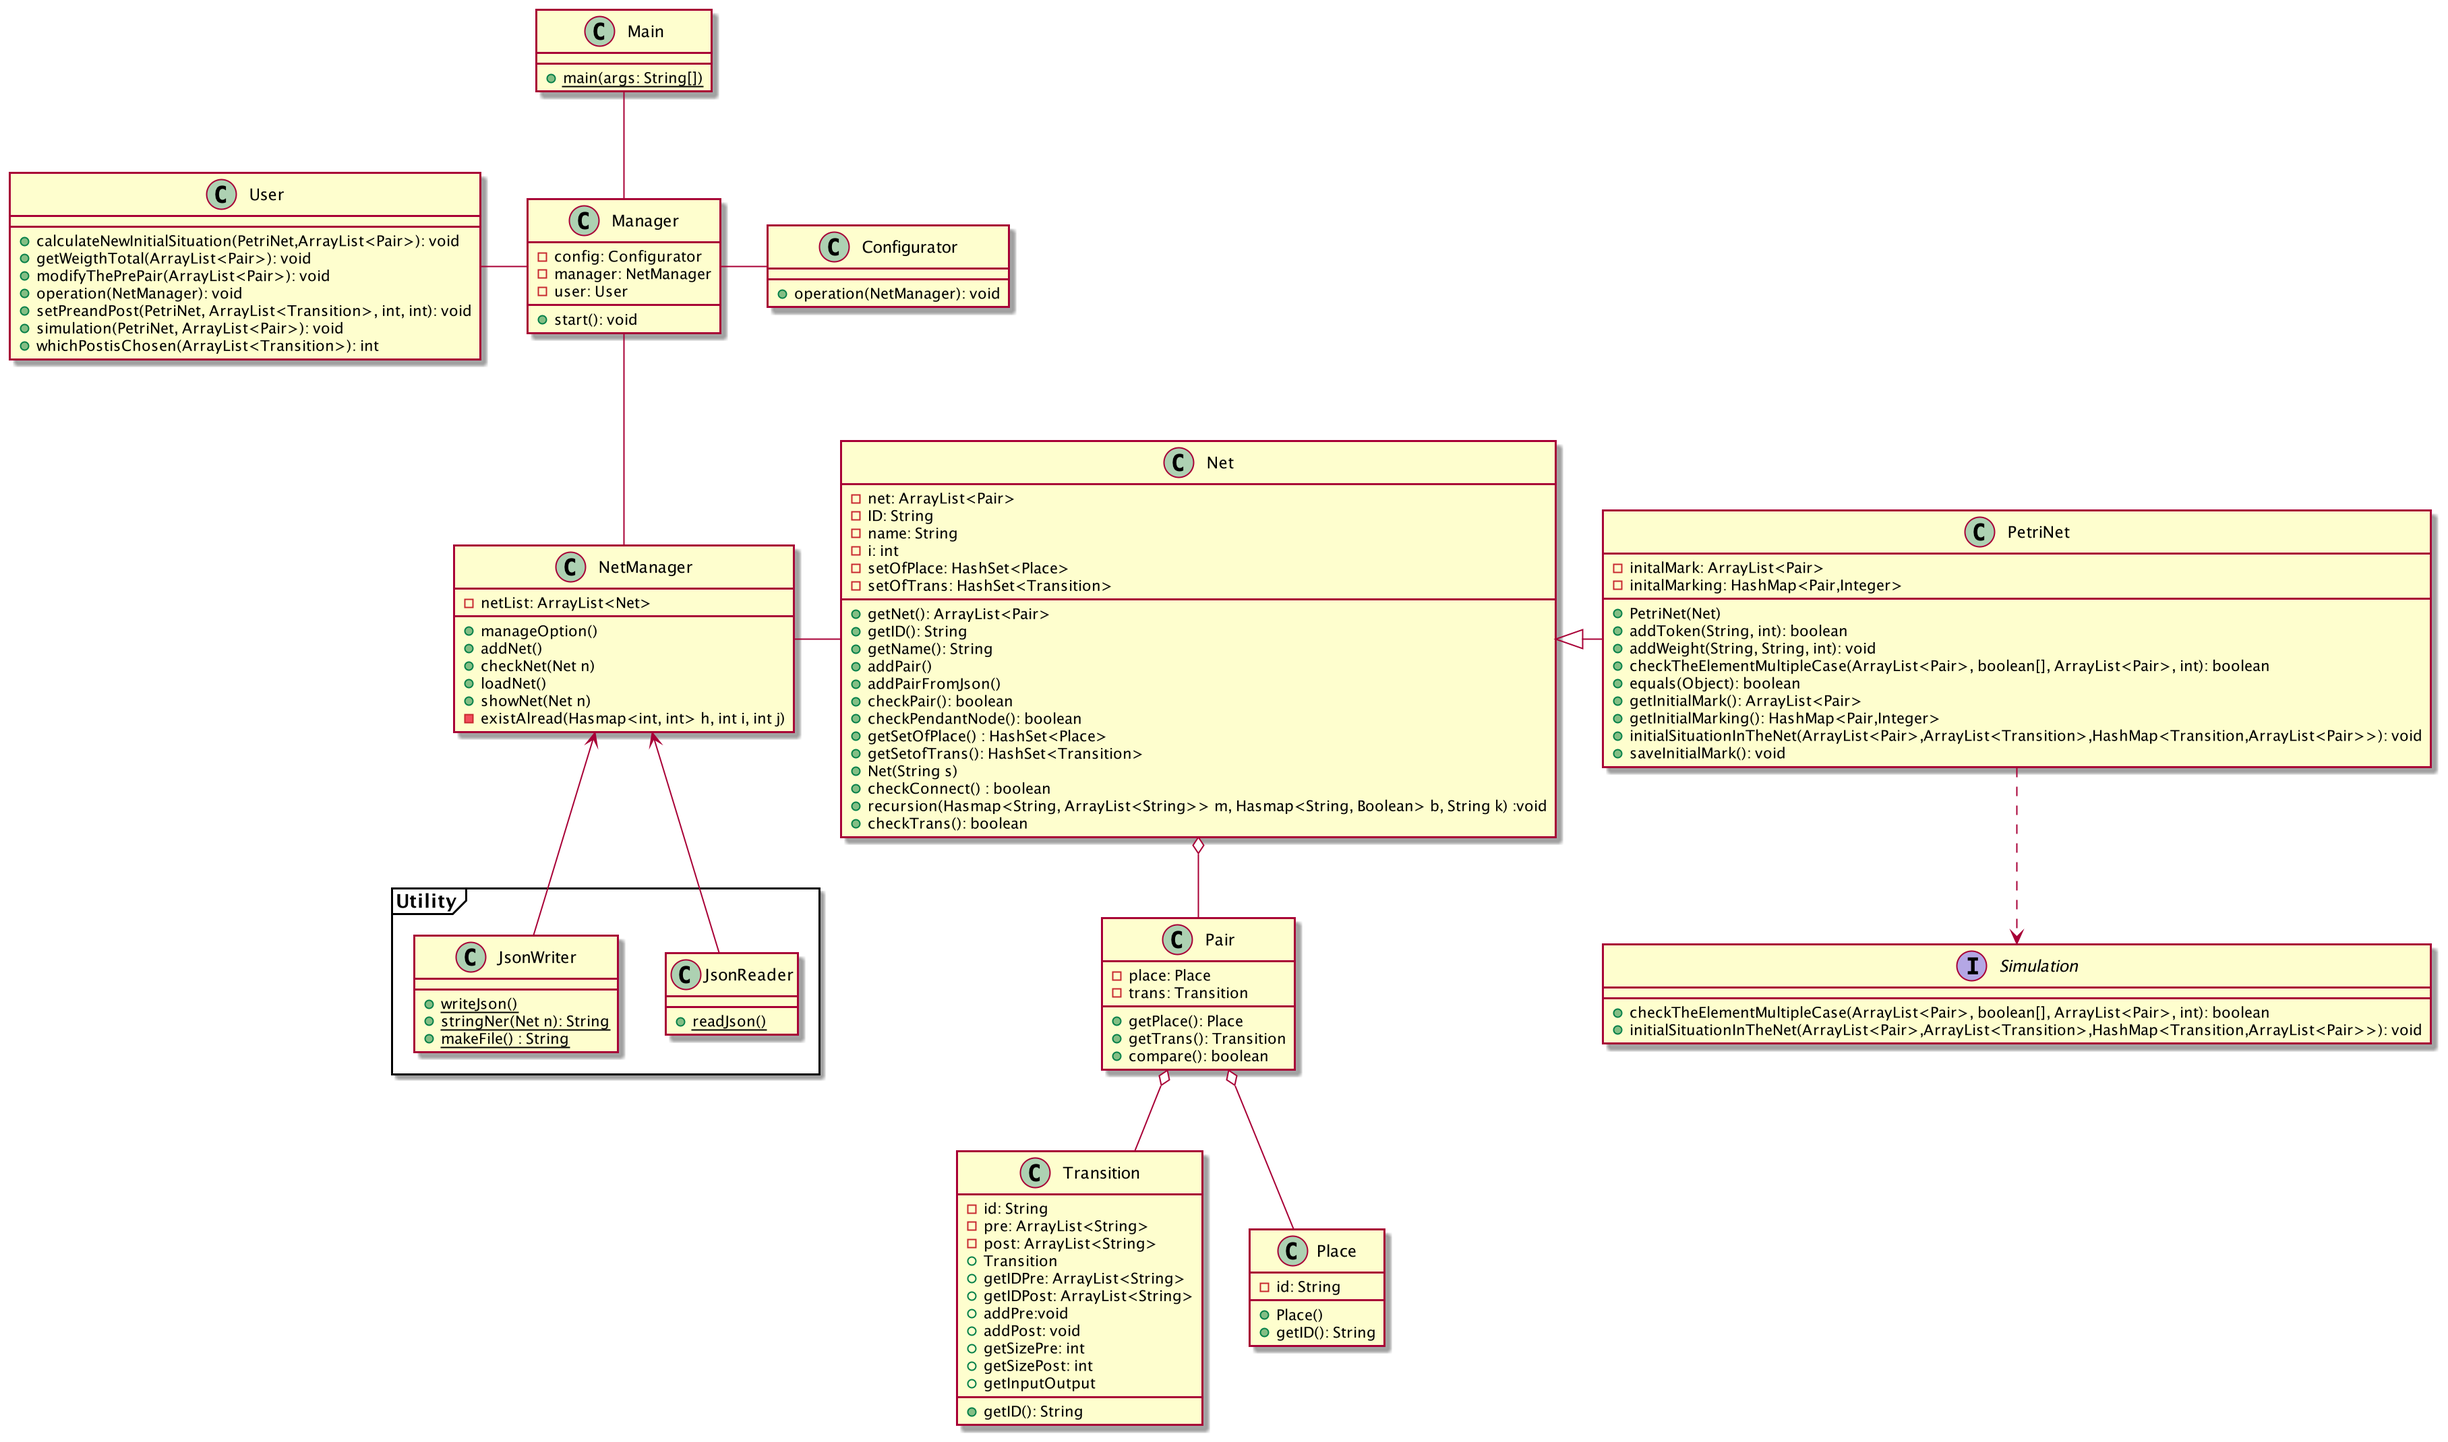
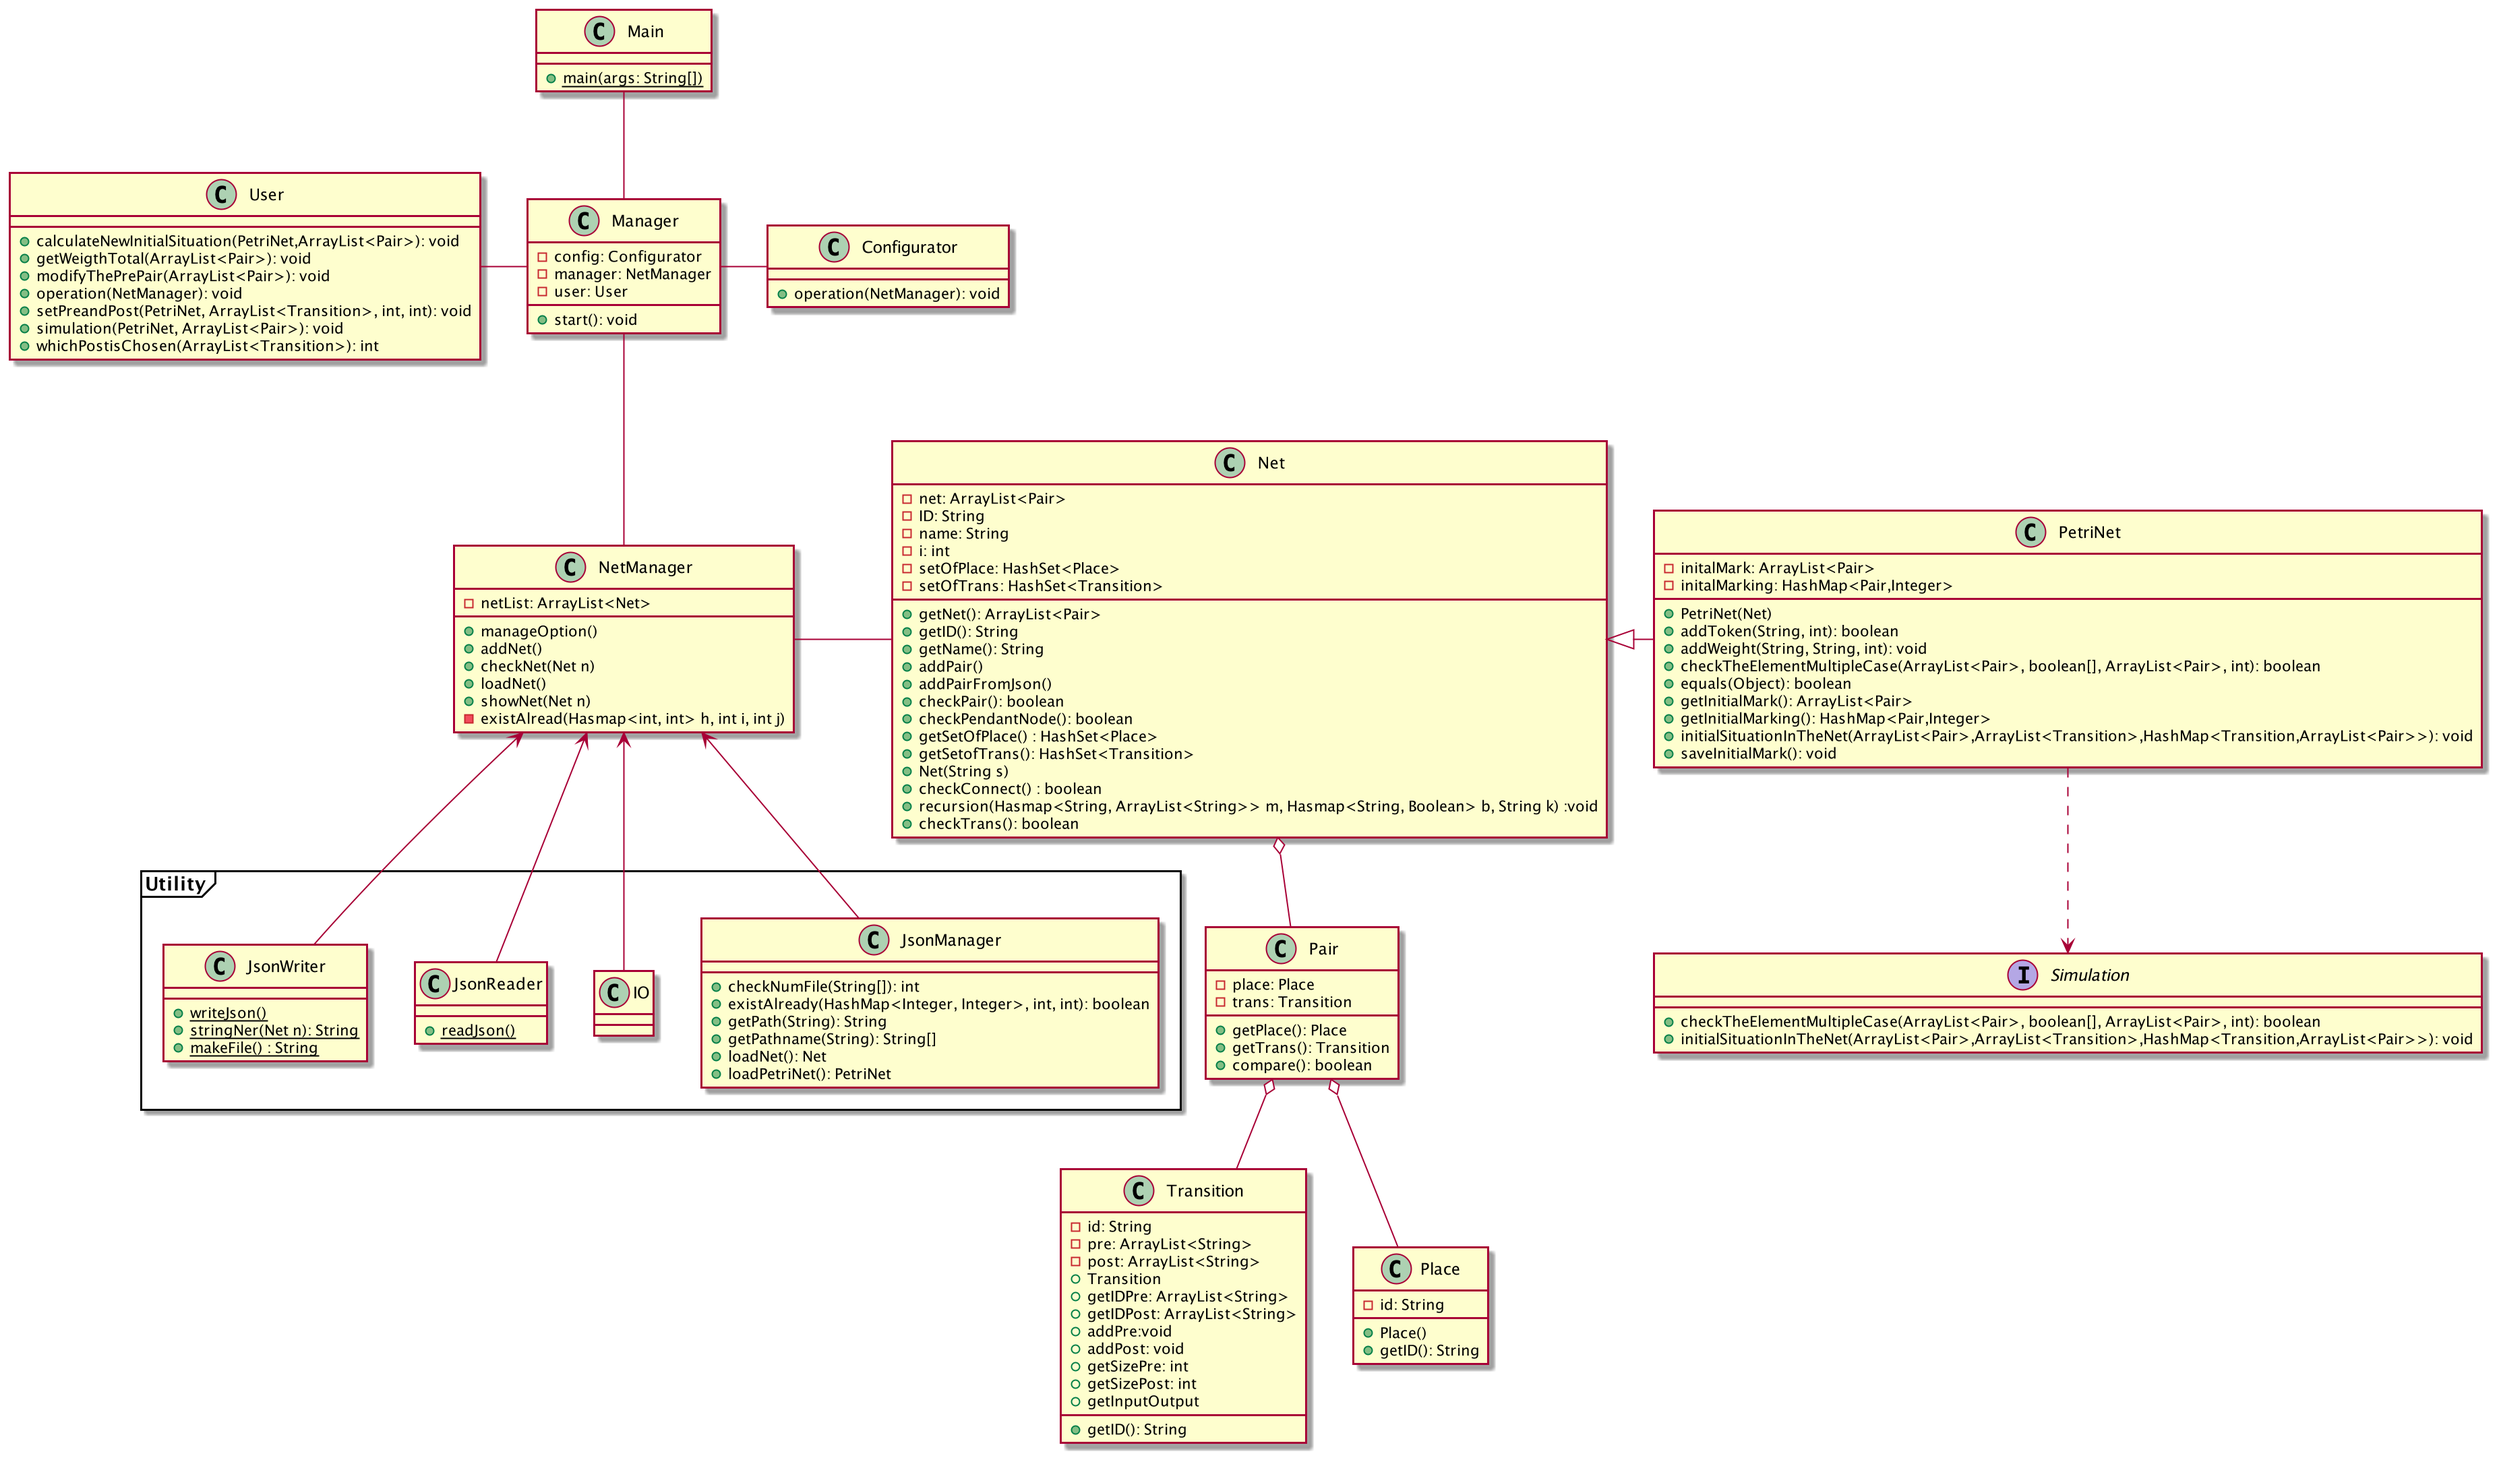
Completata java doc dei metodi utility e aggiornato l'uml

diff --git a/src/main/java/Utility/IO.java b/src/main/java/Utility/IO.java
@@ -69,7 +69,7 @@ public class IO {
     public static final String THE_WEIGHT_HAS_BEEN_ADDED = "The weight has been added";
     public static final String THE_PLACE_DOESN_T_EXIST = "The place doesn't exist";
 
-
+    //declare the objet to get user input
     private static Scanner reader = scannerBuild();
 
     /**
@@ -123,8 +123,8 @@ public class IO {
 
     /**
      * This method allows me (concisely) to create the string I use to ask the user if the place he wants to add is a successor or predecessor of a transition
-     * @param transName
-     * @param placeName
+     * @param transName the name of transition
+     * @param placeName the name of the place
      * @return the final string
      */
     public static String connectionBetweenPlaceandTrans(String transName, String placeName){
@@ -175,6 +175,11 @@ public class IO {
     }
 
 
+    /**
+     * method to read the input number
+     * @param message the message to show to user
+     * @return the value that user have inserted
+     */
     public static int readNumber(String message) {
         boolean finish = false;
         int readValue = 0;
@@ -284,7 +289,7 @@ public class IO {
     /**
      * method to view the Petri's net
      *
-     * @param net
+     * @param net the petri net to show
      */
     public static void showPetriNet(Net net) {
         //get name and if of the net
@@ -368,7 +373,7 @@ public class IO {
     /**
      * method to view the net
      *
-     * @param net
+     * @param net the net to show
      */
     public static void showNet(Net net) {
         //get name and if of the net
@@ -446,6 +451,11 @@ public class IO {
         print(MARKING_WITH_TOKEN);
         printPair(initialMark);
     }
+
+    /**
+     * method to print the pairs of the net
+     * @param pairs the list of the pair of the net
+     */
     public static void printPair(Iterable<Pair> pairs) {
         for (Pair p: pairs){
             IO.print(p.getPlace().getName() + WHERE_THERE_ARE + p.getPlace().getNumberOfToken());
@@ -454,6 +464,10 @@ public class IO {
 
     }
 
+    /**
+     * method to print the list of the net already loaded
+     * @param nets the list of all net loaded
+     */
     public static void printNets(Iterable<PetriNet> nets) {
         int i=1;
         for (Net n: nets){

diff --git a/src/main/java/Utility/JsonWriter.java b/src/main/java/Utility/JsonWriter.java
@@ -43,8 +43,8 @@ public class JsonWriter {
 
     /**
      * method to get the Json string of the net
-     * @param net
-     * @return stringJson
+     * @param net the net to get data
+     * @return stringJson the string to print on the file
      */
     private static String stringNet(Net net) {
         assert net != net;
@@ -96,7 +96,7 @@ public class JsonWriter {
 
     /**
      * method to create a new json file where save the net and get its pathname
-     * @return pathname
+     * @return pathname the pathname of the file to write on
      */
     private static String makeFile() {
         //initialize file object of directory
@@ -128,8 +128,8 @@ public class JsonWriter {
 
     /**
      * method to get the Json string of the Petri's net
-     * @param net
-     * @return stringJson
+     * @param net the net from that take data
+     * @return stringJson the string to print in the file
      */
     public static String stringPetriNet(PetriNet net) {
         //initalize the Arraylist of pairs of the net
@@ -189,7 +189,6 @@ public class JsonWriter {
 
     /**
      * method to create a new json file where save the Petri's net and get its pathname
-     * @return pathname
      */
     private static String makePetriFile() {
         //initialize file object of directory
@@ -223,7 +222,7 @@ public class JsonWriter {
 
     /**
      * method to write a Petri's net on json
-     * @param net
+     * @param net the net to write in the file
      */
     public static void writeJsonPetri(PetriNet net) {
         //get the json string of the net to print in the file

diff --git a/src/main/java/Utility/JsonReader.java b/src/main/java/Utility/JsonReader.java
@@ -14,9 +14,8 @@ import java.util.Scanner;
 public class JsonReader {
     /**
      * read file method
-     *
-     * @param pathname
-     * @return Net
+     * @param pathname the pathname of the file to read
+     * @return Net the net read from the input file
      * @throws FileNotFoundException
      */
     public static Net readJson(String pathname) throws FileNotFoundException {
@@ -74,11 +73,11 @@ public class JsonReader {
         //the net is built and return
         return net;
     }
+
     /**
      * this method allows to read a Petri's net contain in a file
-     *
-     * @param pathname
-     * @return Net
+     * @param pathname the pathname of the file to read
+     * @return Net the net loaded from the input file
      * @throws FileNotFoundException
      */
     public static PetriNet readPetriJson(String pathname) throws FileNotFoundException {
